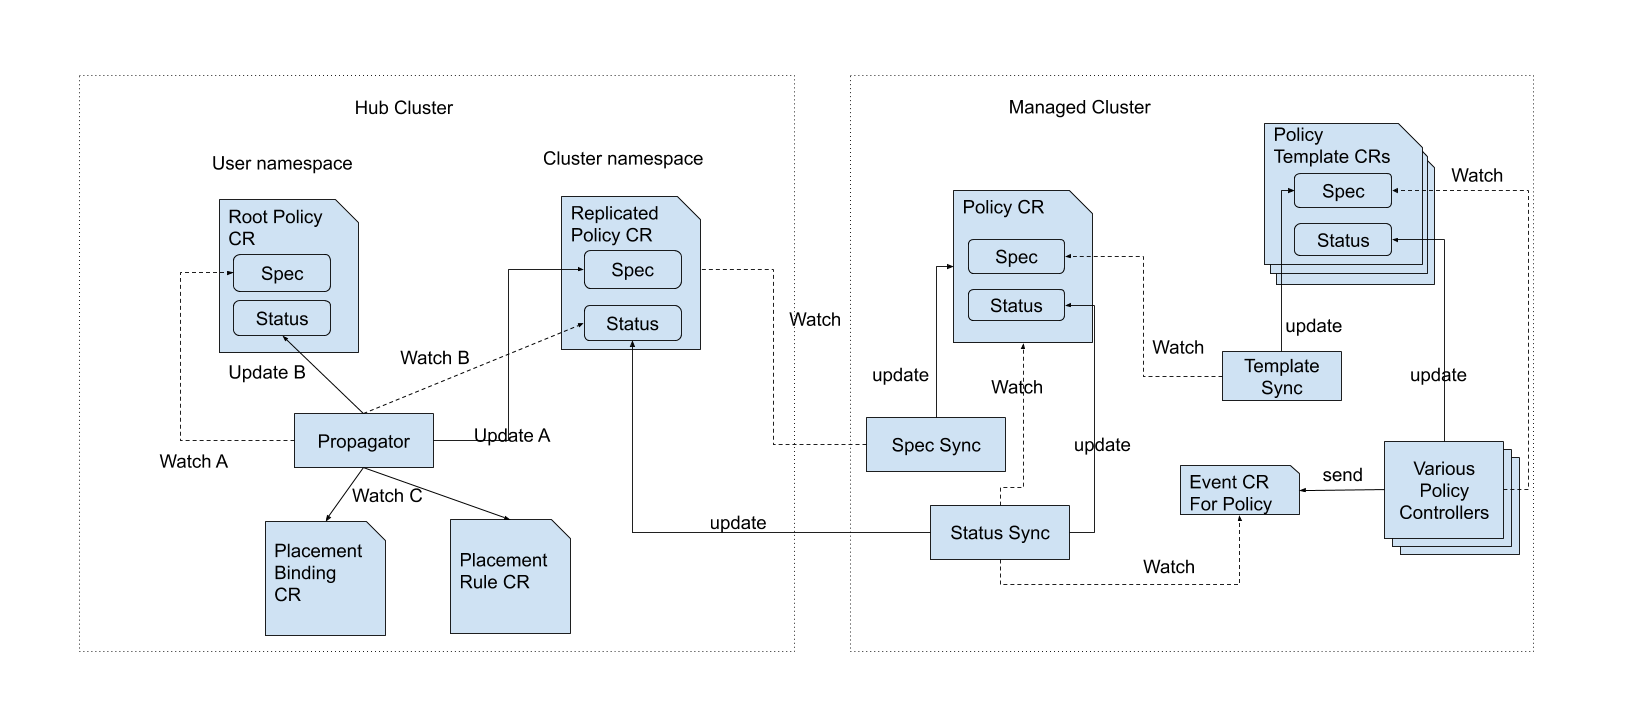
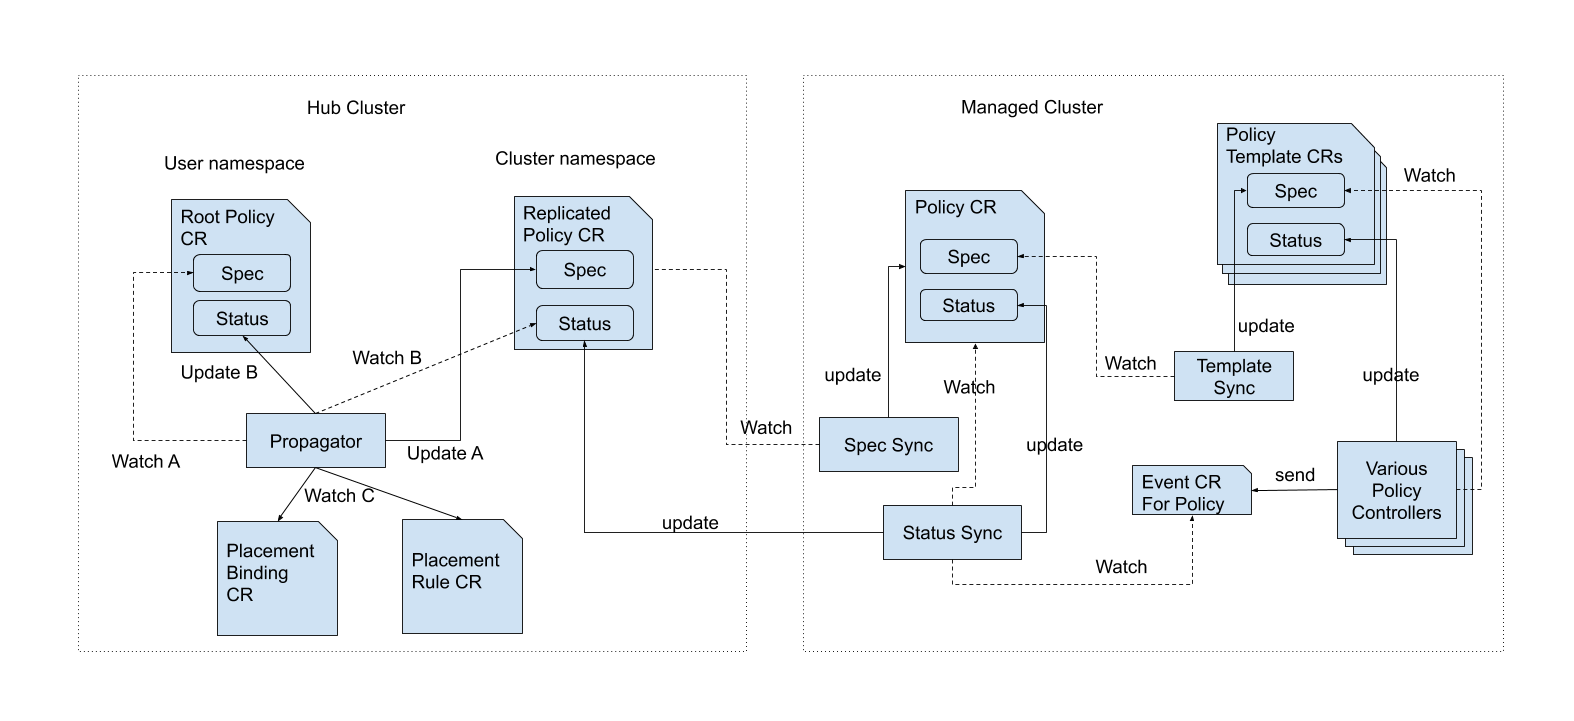
minor edits

diff --git a/README.md b/README.md
@@ -14,10 +14,13 @@ The policy framework consists of following components
 - [Policy spec sync](https://github.com/open-cluster-management/governance-policy-spec-sync)
 - [Policy status sync](https://github.com/open-cluster-management/governance-policy-status-sync)
 - [Policy template sync](https://github.com/open-cluster-management/governance-policy-template-sync)
+- Various policy controllers
+  - out-of-box
+  - bring your own
 
 ![architecture](images/policy-framework-architecture.png)
 
-## Out-of-box policies
+## Out-of-box policies and controllers
 - [configuration policy](https://github.com/open-cluster-management/config-policy-controller)
 - [cert expiration policy](https://github.com/open-cluster-management/cert-policy-controller)
 - [iam policy](https://github.com/open-cluster-management/iam-policy-controller)
